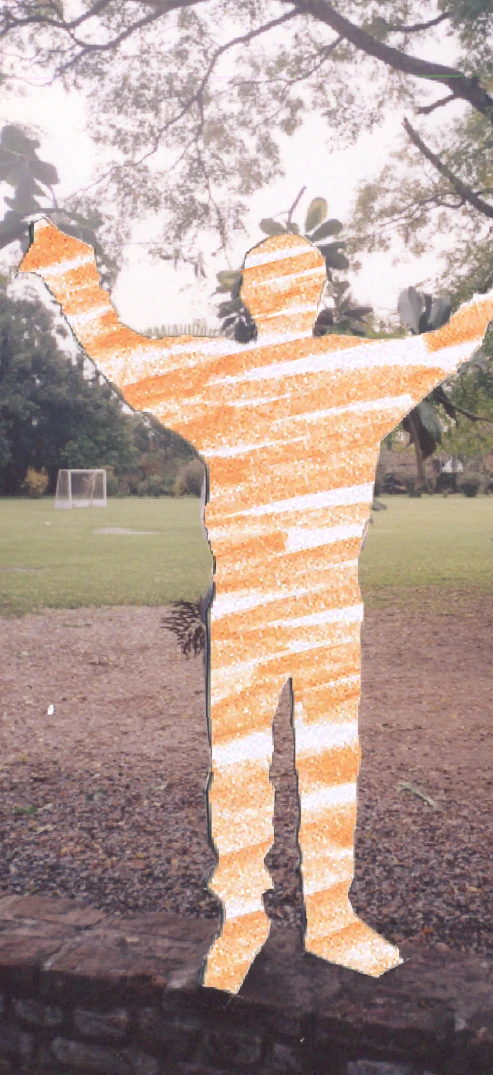
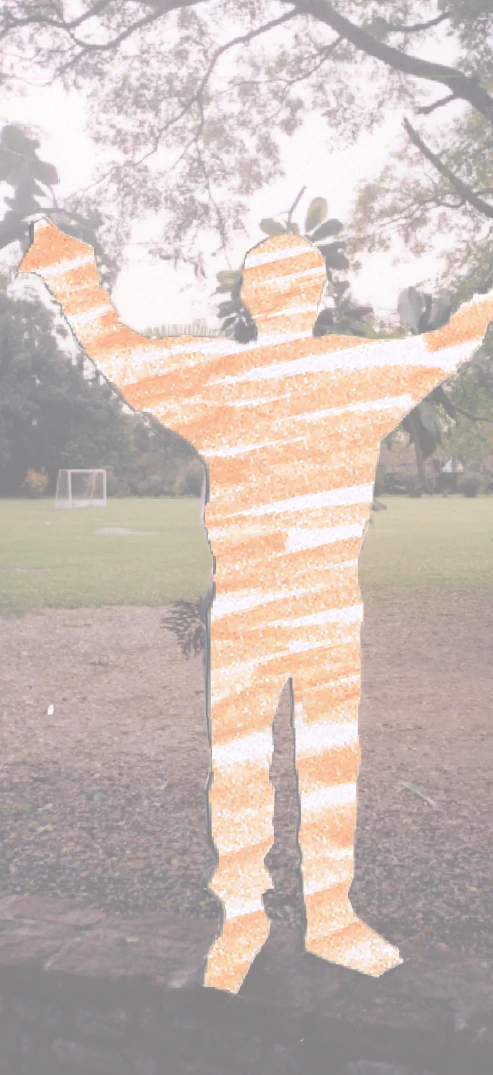
feat: actualizar imagen de fondo en el componente HeroAbout para mejorar la presentación visual en dispositivos móviles

diff --git a/components/sobre/hero.tsx b/components/sobre/hero.tsx
@@ -3,7 +3,7 @@ import { Button } from "../ui/button";
 
 export default function HeroAbout() {
   return (
-    <section className="bg-[url('/img/bg-fondo-verde.webp')] bg-cover bg-center bg-no-repeat relative min-h-screen flex items-end md:items-center justify-center overflow-hidden ">
+    <section className="md:bg-[url('/img/bg-fondo-verde.webp')] bg-cover bg-center bg-no-repeat relative min-h-screen flex items-end md:items-center justify-center overflow-hidden ">
       {/* Background Geometric Shapes */}
 
       {/* Background Geometric Shapes */}
